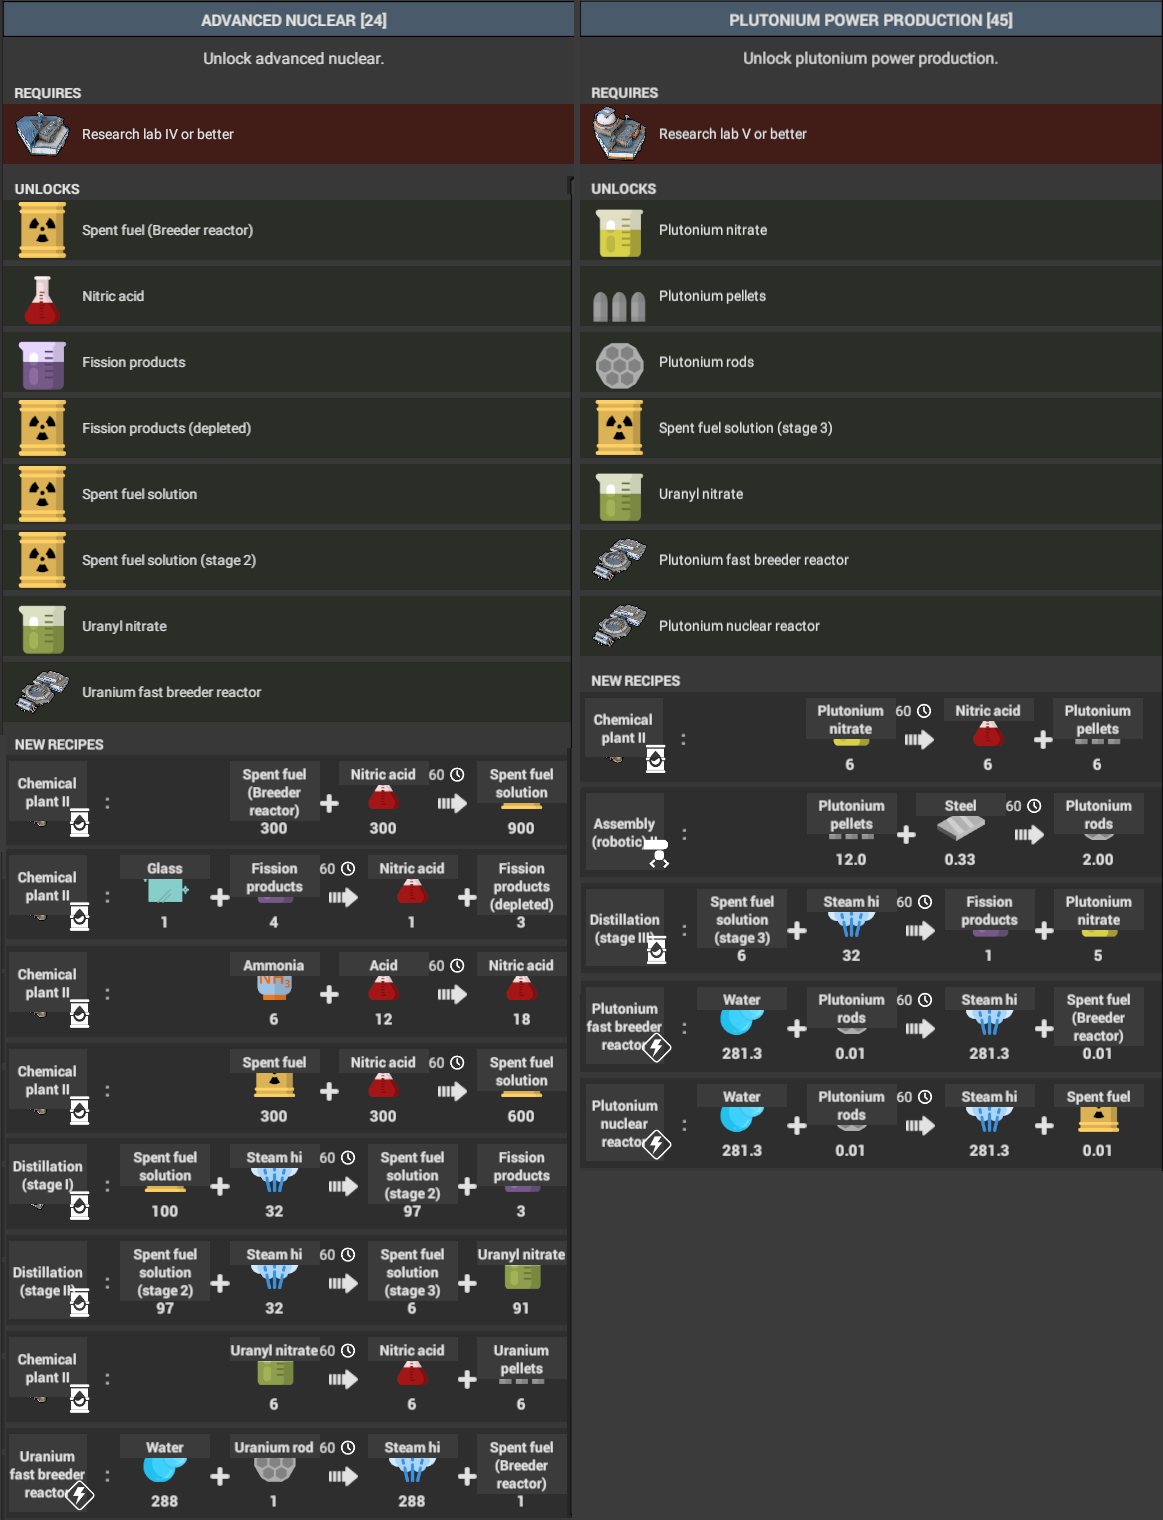
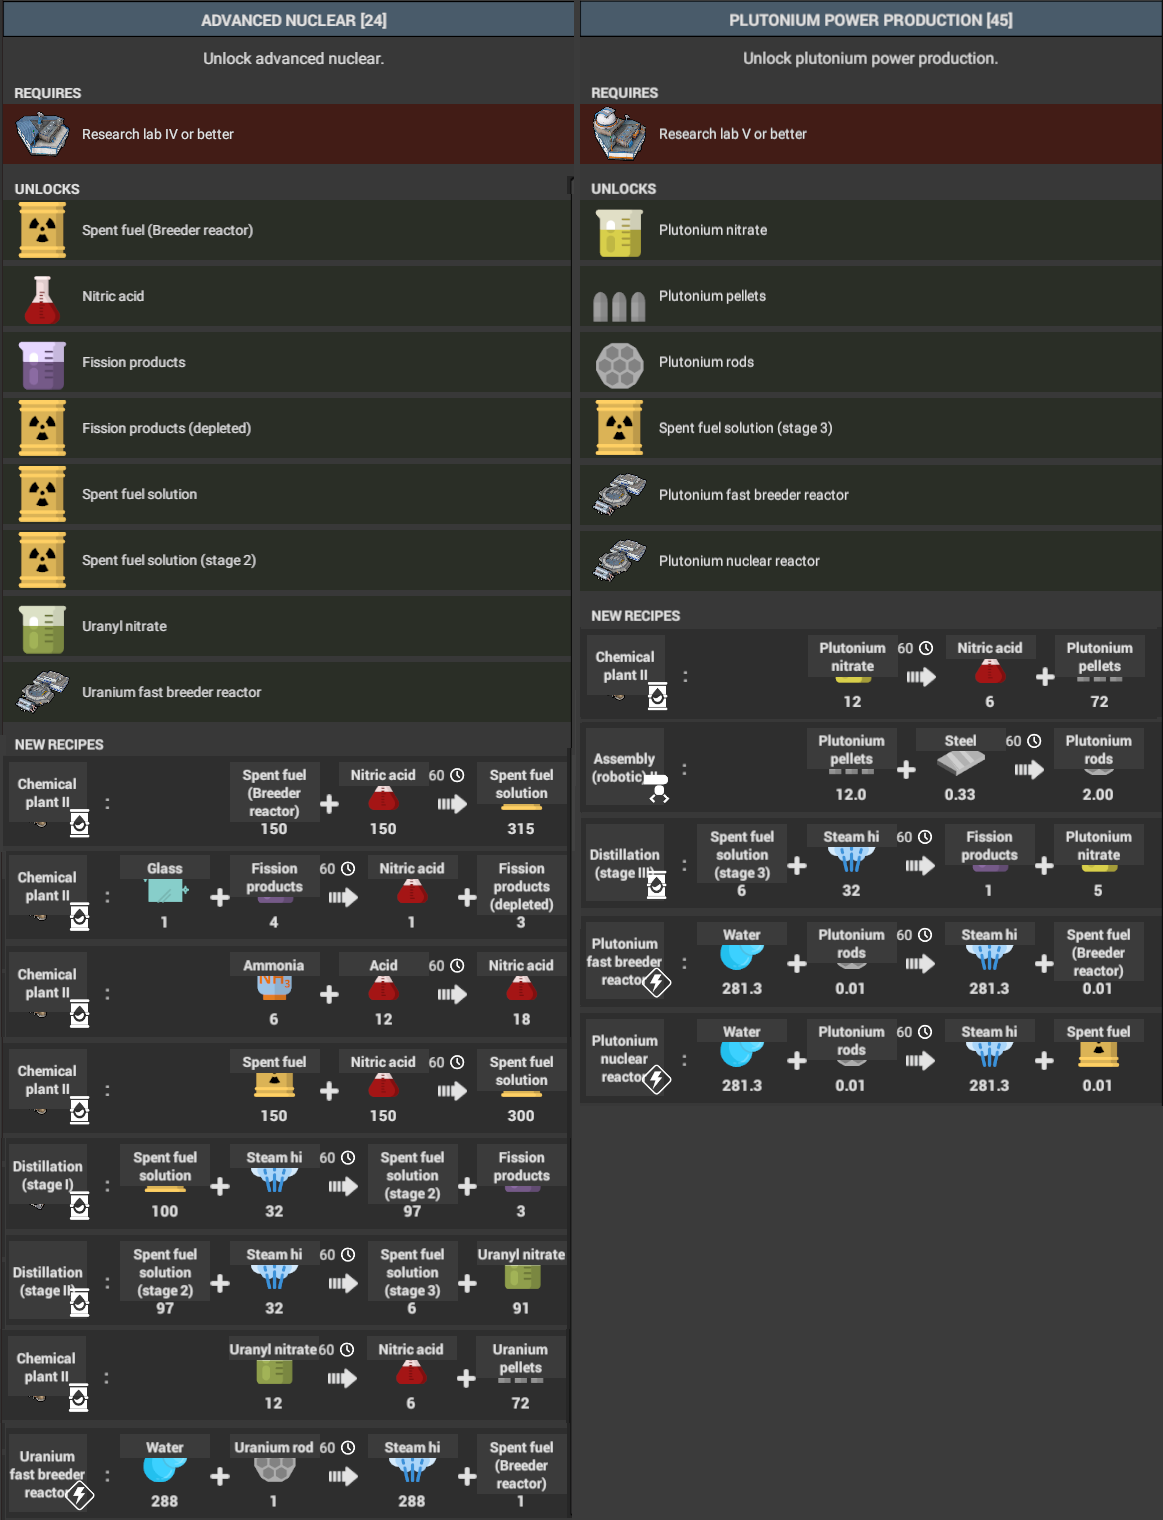
1.0.1-pre

diff --git a/Recipes/ChemicalPlantData.cs b/Recipes/ChemicalPlantData.cs
@@ -19,8 +19,8 @@ internal class ChemicalPlantData : IModData
         int outputProducts
     ) => registrator.RecipeProtoBuilder
             .Start($"{name} reprocessing", recipeId, machineId)
-            .AddInput(100, inputProductId)
-            .AddInput(100, NuclearPlusIds.Products.NitricAcid)
+            .AddInput(50, inputProductId)
+            .AddInput(50, NuclearPlusIds.Products.NitricAcid)
             .SetDuration(20.Seconds())
             .AddOutput(outputProducts, NuclearPlusIds.Products.SpentFuelSolutionT1)
         .BuildAndAdd();
@@ -33,10 +33,10 @@ internal class ChemicalPlantData : IModData
         ProductProto.ID outputProductId
     ) => registrator.RecipeProtoBuilder
             .Start($"{name} enrichment", recipeId, machineId)
-            .AddInput(2, inputProductId)
+            .AddInput(4, inputProductId)
             .SetDuration(20.Seconds())
             .AddOutput(2, NuclearPlusIds.Products.NitricAcid)
-            .AddOutput(2, outputProductId)
+            .AddOutput(24, outputProductId)
         .BuildAndAdd();
 
     public void RegisterData(ProtoRegistrator registrator)
@@ -54,14 +54,14 @@ internal class ChemicalPlantData : IModData
             registrator,
             recipeId: NuclearPlusIds.Recipes.SpentFuelRecycling,
             inputProductId: Ids.Products.SpentFuel,
-            outputProducts: 200
+            outputProducts: 100
         );
         registerReprocessingRecipe(
             "Breeder reactor spent fuel",
             registrator,
             recipeId: NuclearPlusIds.Recipes.BreederSpentFuelRecycling,
             inputProductId: NuclearPlusIds.Products.BreederSpentFuel,
-            outputProducts: 300
+            outputProducts: 105
         );
 
         registerEnrichmentFromNitrateRecipe(

diff --git a/Research/AdvancedNuclearResearchData.cs b/Research/AdvancedNuclearResearchData.cs
@@ -44,7 +44,6 @@ internal class AdvancedNuclearResearchData : IResearchNodesData
                 .AddProductToUnlock(NuclearPlusIds.Products.PlutoniumPellets)
                 .AddProductToUnlock(NuclearPlusIds.Products.PlutoniumRod)
                 .AddProductToUnlock(NuclearPlusIds.Products.SpentFuelSolutionT3)
-                .AddProductToUnlock(NuclearPlusIds.Products.UranylNitrate)
                 .AddLayoutEntityToUnlock(NuclearPlusIds.Buildings.PlutoniumBreederReactor)
                 .AddLayoutEntityToUnlock(NuclearPlusIds.Buildings.PlutoniumReactor)
                 .SetCosts(ResearchCostsTpl.Build.SetDifficulty(45))

diff --git a/README.md b/README.md
@@ -2,7 +2,7 @@
 
 Provides advanced nuclear research to the game.
 
-Currently alpha.
+> :warning: **Currently ***alpha***. Buildings and recipes may change...**
 
 Currently provides:
 * Fast breeder reactor
@@ -32,13 +32,17 @@ Download the latest release: https://github.com/NotoriousPyro/NuclearPlus/releas
 
 # How to use
 
-## Basic setup
-***COMING SOON...***
+## Uranium breeder reactor & fuel recycling
+> :warning: **Void producers from CoI.Mod.Better are used as inputs in this example**
+
+In order to extend this to support plutonium rods, simply take the output of the stage 2 distiller to a stage 3 distiller and set up another Chemical Plant II to create the rods.
+
+![Basic setup](docs/basic_setup.png)
 
 ## Research
 Research is via:
 * **Advanced nuclear**: dependant on Nuclear reactor first being completed.
-* **Plutonoum power production**: dependant on Robotic III and Advanced nuclear first being completed.
+* **Plutonium power production**: dependant on Robotic III and Advanced nuclear first being completed.
 ![Research](docs/research.png)
 ![Research Tree](docs/research_tree.png)
 
